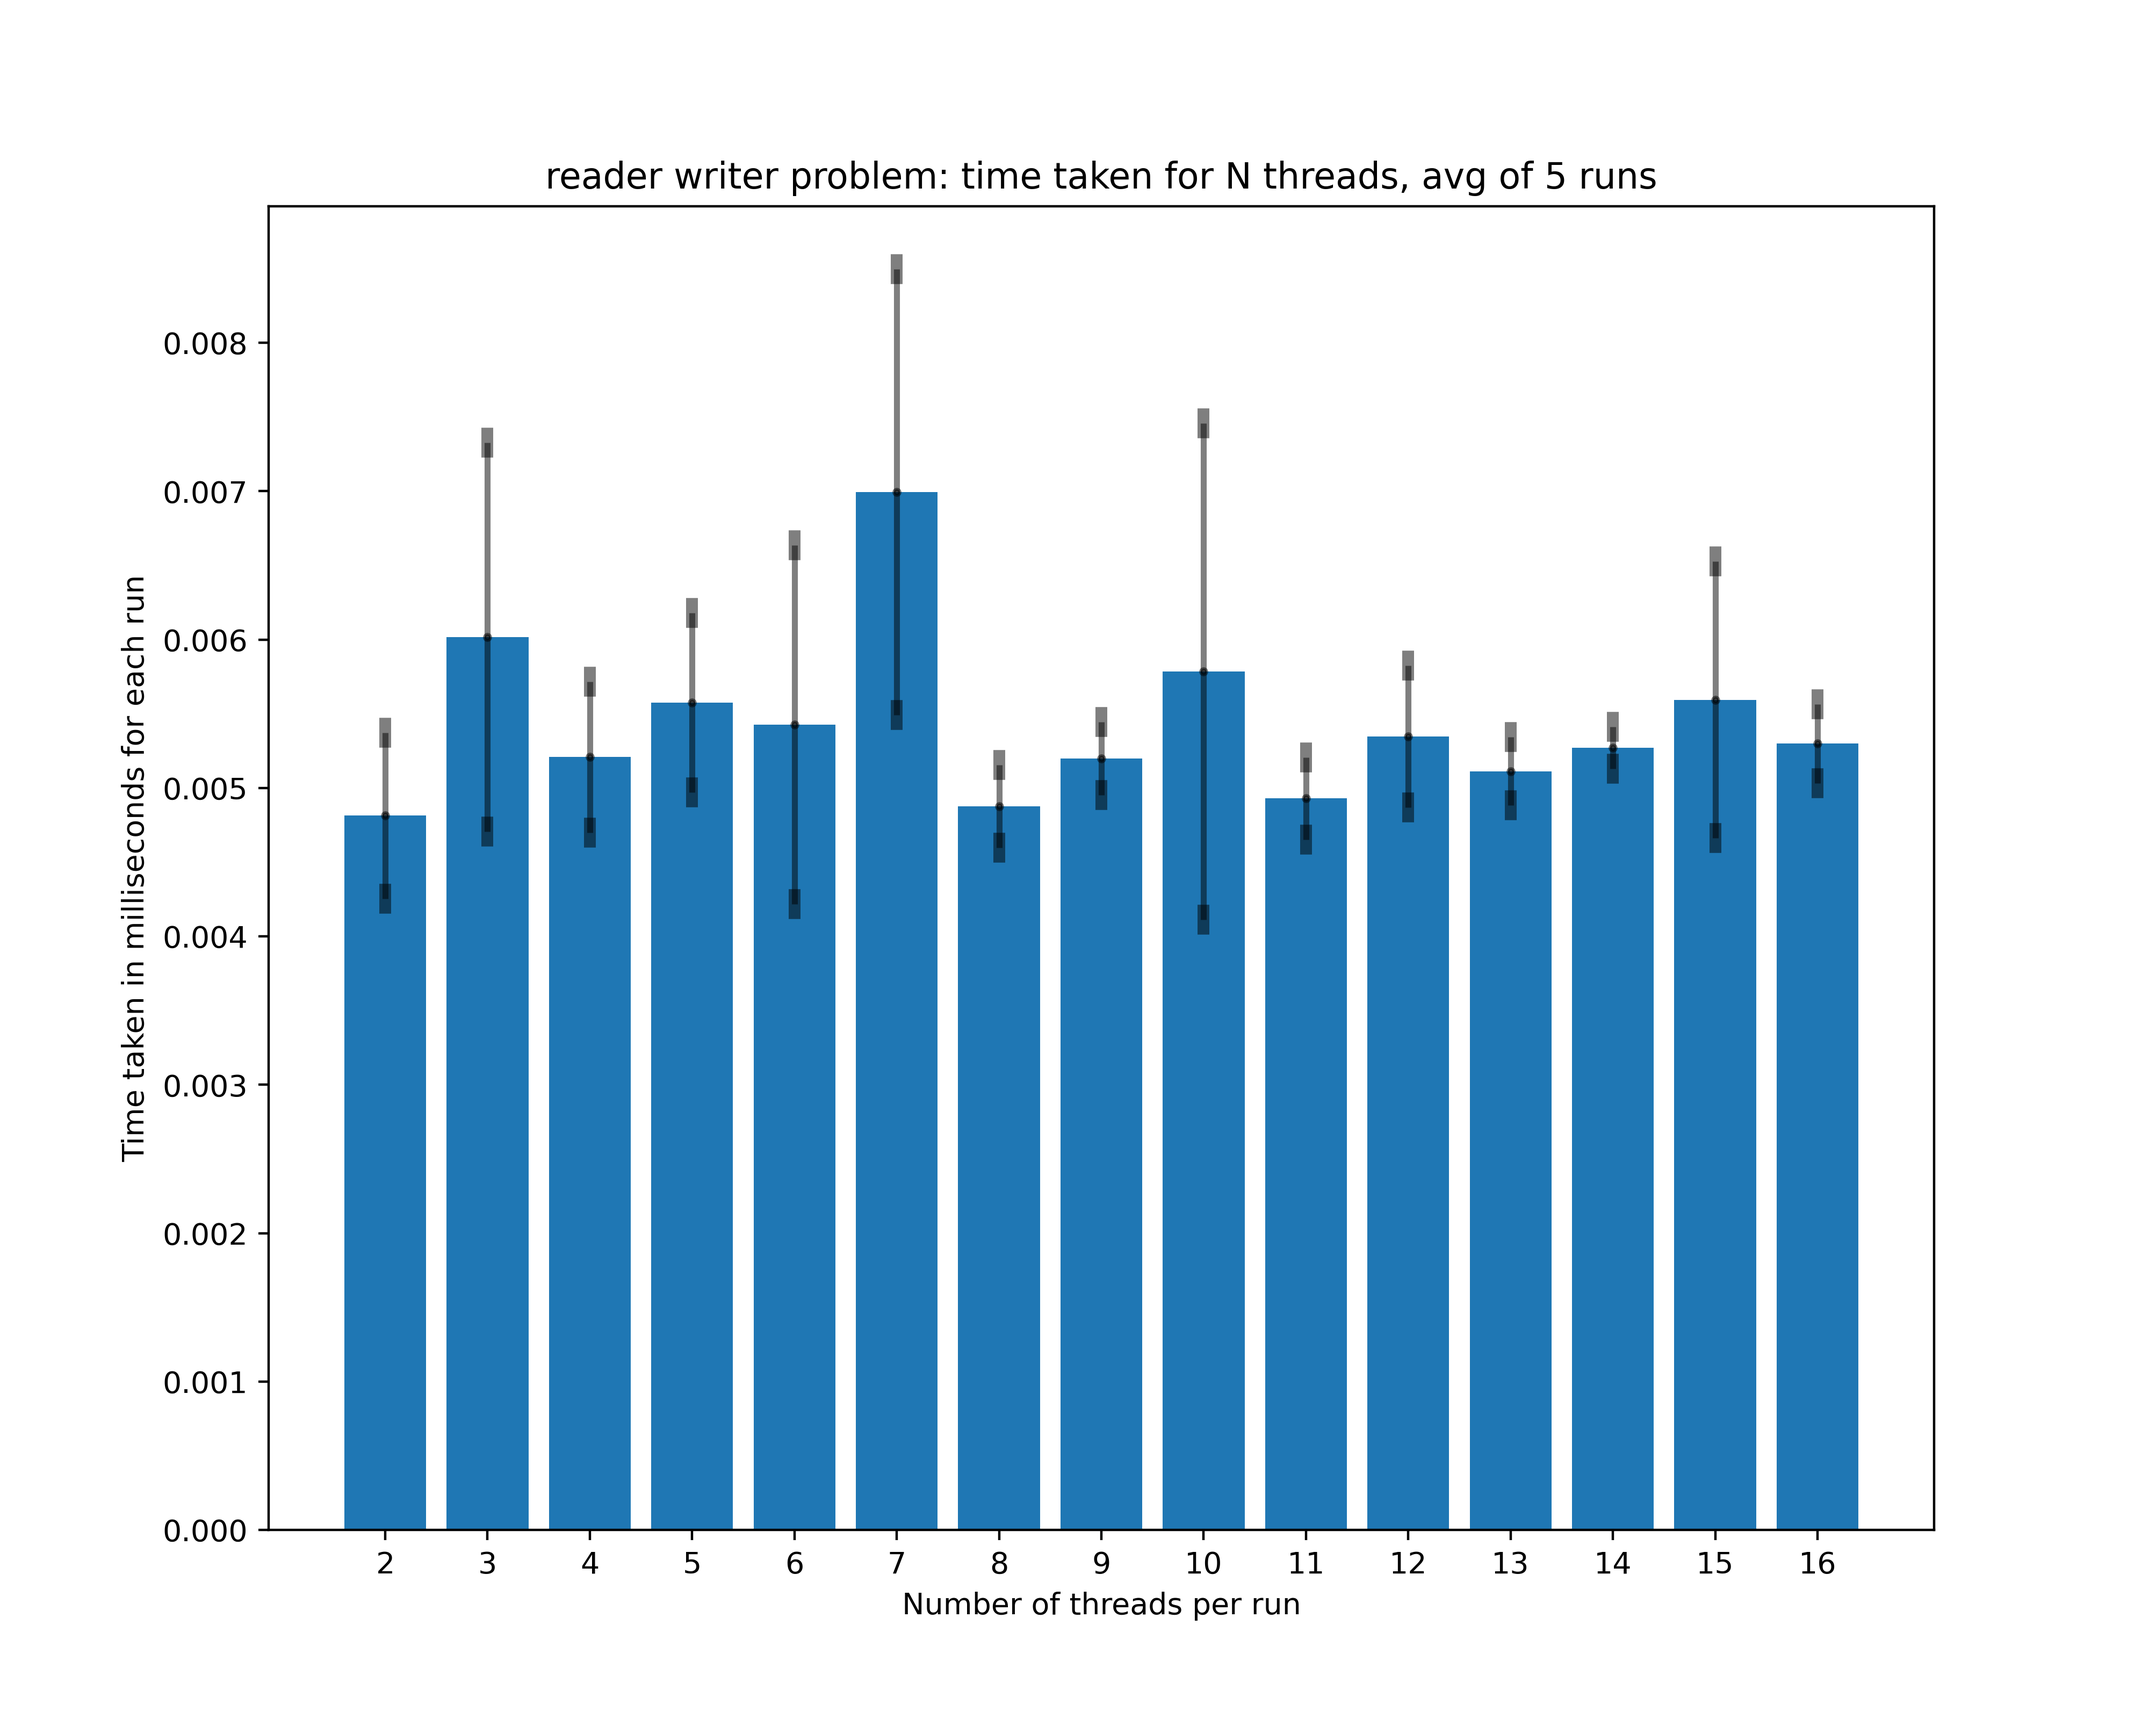
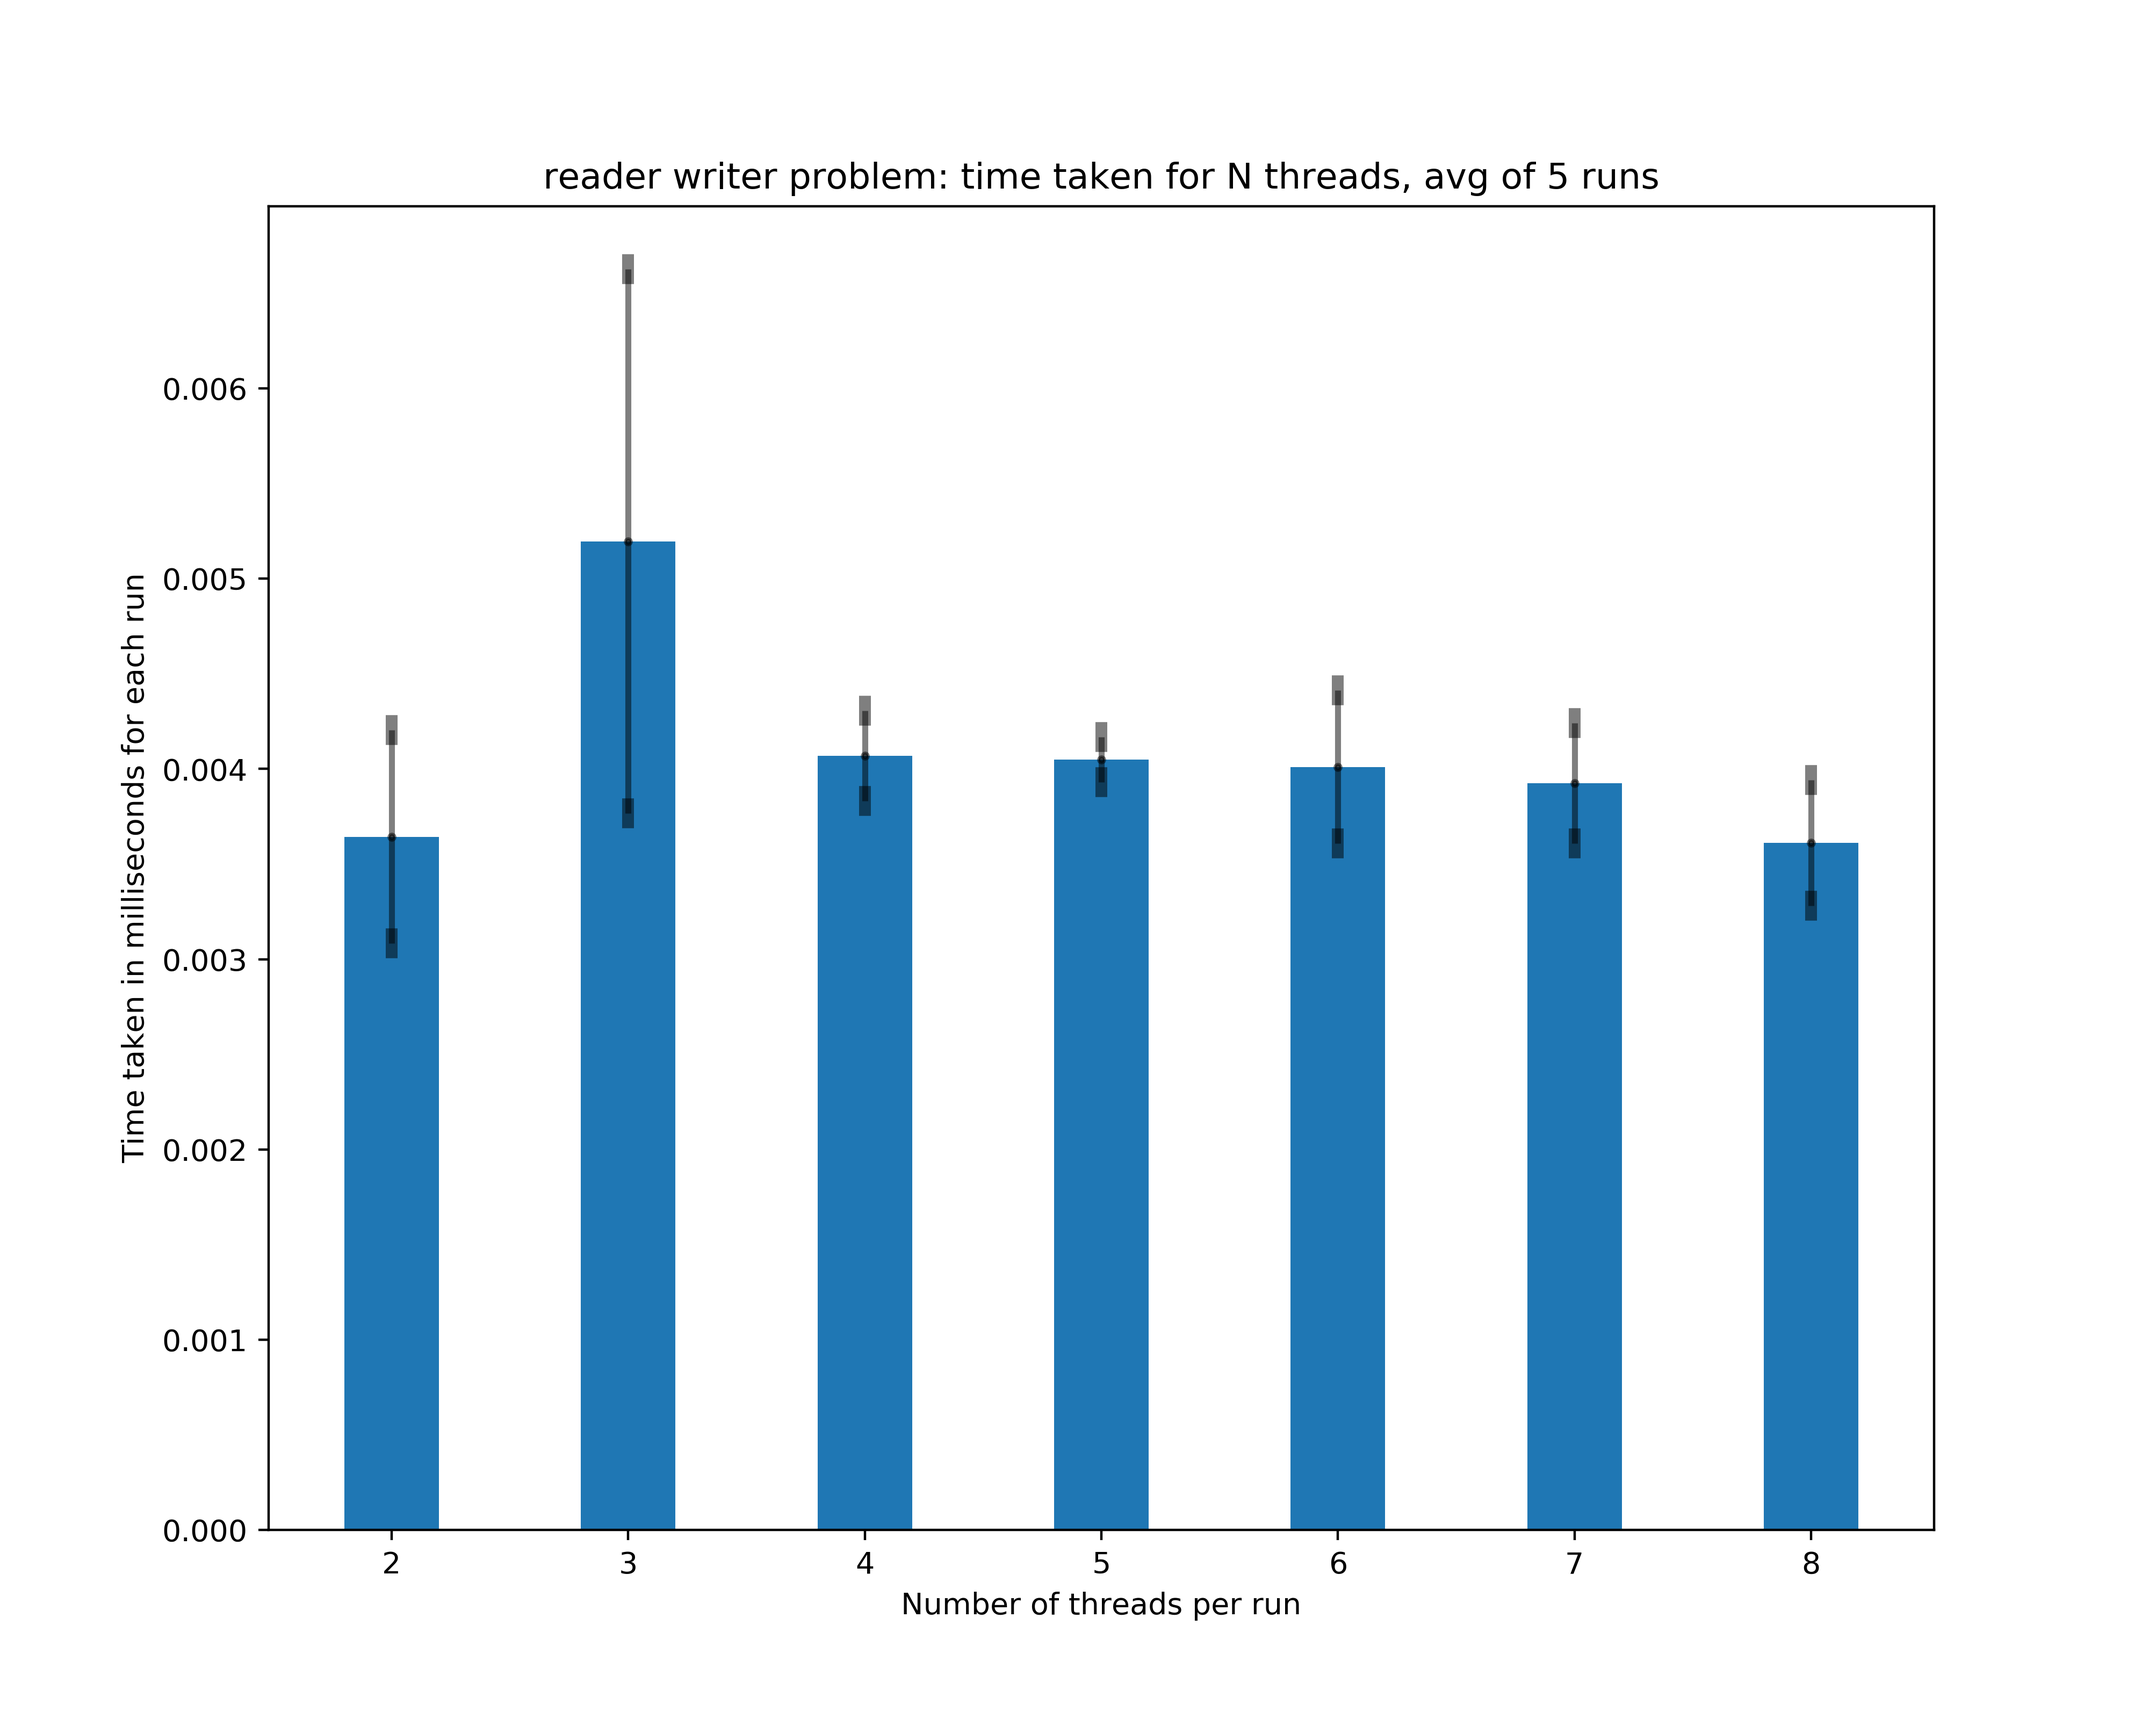
Finished adding TTAS data to the TAS graph

diff --git a/analysis.py b/analysis.py
@@ -5,12 +5,15 @@ import statistics
 import matplotlib.pyplot as plt
 from enum import Enum
 
+import numpy as np
+
 
 class CurrentProblem(Enum):
     PHILOSOPHERS = "philosophers"
     READER_WRITER = "reader_writer"
     PRODUCER_CONSUMER = "producer_consumer"
     TEST_AND_SET_LOCK = "test_and_set_lock"
+    TEST_AND_TEST_AND_SET_LOCK = "test_and_test_and_set_lock"
 
 
 def plot_file(file, current_problem: str):
@@ -18,8 +21,10 @@ def plot_file(file, current_problem: str):
 
     threads = []
     y = []
-    
     y_err = []
+    ttas_y = []
+    ttas_y_err = []
+
     for row in reader:
         threads.append(row[0])
         float_row = []
@@ -30,24 +35,49 @@ def plot_file(file, current_problem: str):
         stdev = statistics.stdev(float_row)
         y_err.append(stdev)
         y.append(statistics.mean(float_row))
-    
+
+    if current_problem == CurrentProblem.TEST_AND_SET_LOCK.value:
+        with open(f"./data/{CurrentProblem.TEST_AND_TEST_AND_SET_LOCK.value}.csv") as f2:
+            reader2 = csv.reader(f2, delimiter=",")
+            for row2 in reader2:
+                float_row2 = []
+                for i2 in row2[1:]:
+                    time_list = i2.split(";")
+                    duration = float(time_list[0]) - float(time_list[1])
+                    float_row2.append(duration)
+
+                stdev = statistics.stdev(float_row2)
+                ttas_y_err.append(stdev)
+                ttas_y.append(statistics.mean(float_row2))
+
     width = 10
     height = 8
-    
+
+    X_axis = np.arange(len(threads)) + 0.2 if current_problem == CurrentProblem.TEST_AND_SET_LOCK.value else threads
+
     plt.figure(figsize=(width, height))
-    plt.bar(threads, y)
+
+    plt.bar(X_axis, y, 0.4, label="test and set")
+    plt.errorbar(X_axis, y, y_err, fmt=".", color="Black", elinewidth=2, capthick=10, errorevery=1, alpha=0.5, ms=4,
+                 capsize=2)
+    if current_problem == CurrentProblem.TEST_AND_SET_LOCK.value:
+        plt.bar(X_axis - 0.4, ttas_y, 0.4, label="test and test and and set")
+        plt.errorbar(X_axis - 0.4, ttas_y, ttas_y_err, fmt=".", color="Black", elinewidth=2, capthick=10, errorevery=1,
+                     alpha=0.5, ms=4,
+                     capsize=2)
+
     name = current_problem.replace("_", " ")
     plt.title(f"{name} problem: time taken for N threads, avg of 5 runs")
     plt.xlabel("Number of threads per run")
     plt.ylabel("Time taken in milliseconds for each run")
-    plt.errorbar(threads, y, y_err, fmt=".", color="Black", elinewidth=2, capthick=10, errorevery=1, alpha=0.5, ms=4,
-                    capsize=2)
+
     plt.savefig(f'./data/figure_{current_problem}.png', dpi=400, transparent=False)
-    plt.show()
+    # plt.show()
 
 
 def main():
-    for i in [CurrentProblem.PHILOSOPHERS.value, CurrentProblem.PRODUCER_CONSUMER.value, CurrentProblem.READER_WRITER.value, CurrentProblem.TEST_AND_SET_LOCK.value]:
+    for i in [CurrentProblem.PHILOSOPHERS.value, CurrentProblem.PRODUCER_CONSUMER.value,
+              CurrentProblem.READER_WRITER.value, CurrentProblem.TEST_AND_SET_LOCK.value]:
         with open(f"./data/{i}.csv") as file:
             plot_file(file, i)
 

diff --git a/src/test_and_set_lock.c b/src/test_and_set_lock.c
@@ -10,7 +10,7 @@
 int test_and_set(volatile int *lock) {
     int value = 1;
     asm volatile ("xchgl %0, %1" : "+m"(*lock), "+a"(value)); // "a" means value goes into eax first, "m" means that lock is read from memory
-    // the "+"" denotes a read and write constraint, found in: https://gcc.gnu.org/onlinedocs/gcc/Modifiers.html#Modifiers
+    // the "+" denotes a read and write constraint, found in: https://gcc.gnu.org/onlinedocs/gcc/Modifiers.html#Modifiers
     return value;
 }
 
@@ -50,7 +50,7 @@ void test_and_set_lock(bool verbose, int n_threads, int n_tatas_threads, bool is
     int number_of_threads = (is_simple_tas ? n_threads : n_tatas_threads);
 
     // allocate on the stack, will be freed automatically
-    pthread_t *threads = malloc(number_of_threads * sizeof(pthread_t));
+    pthread_t *threads = alloca(number_of_threads * sizeof(pthread_t));
 
 
     test_and_set_lock_threads_args_t **args_buffer = malloc(
@@ -94,7 +94,6 @@ void test_and_set_lock(bool verbose, int n_threads, int n_tatas_threads, bool is
     free(args_buffer);
 
     free((int *) lock);
-    free(threads);
 
     if (verbose) {
         printf("Finished running the %s lock test program\n", is_simple_tas ? "test_and_set" : "test_and_test_and_set");
